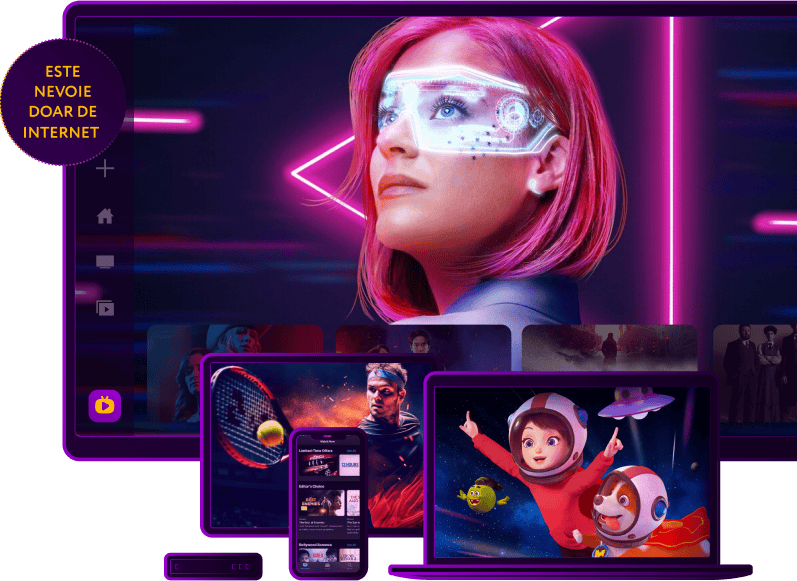
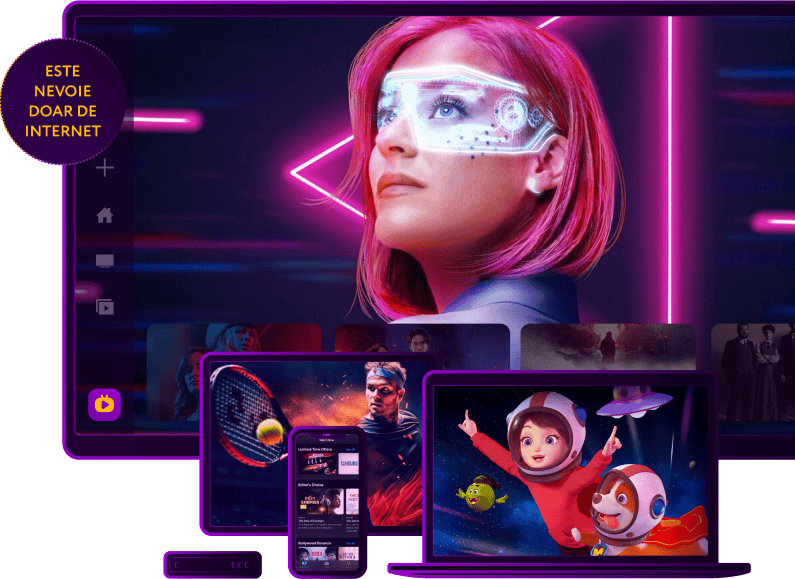
done

diff --git a/css/style.css b/css/style.css
@@ -1,1 +1,1 @@
-html{font-family:sans-serif;-ms-text-size-adjust:100%;-webkit-text-size-adjust:100%}body{margin:0}article,aside,details,figcaption,figure,footer,header,hgroup,main,nav,section,summary{display:block}audio,canvas,progress,video{display:inline-block;vertical-align:baseline}audio:not([controls]){display:none;height:0}[hidden],template{display:none}a{background:rgba(0,0,0,0)}a:active,a:hover{outline:0}abbr[title]{border-bottom:1px dotted}b,strong{font-weight:bold}dfn{font-style:italic}h1{font-size:2em;margin:.67em 0}mark{background:#ff0;color:#000}small{font-size:80%}sub,sup{font-size:75%;line-height:0;position:relative;vertical-align:baseline}sup{top:-0.5em}sub{bottom:-0.25em}img{border:0}svg:not(:root){overflow:hidden}figure{margin:1em 40px}hr{-moz-box-sizing:content-box;-webkit-box-sizing:content-box;box-sizing:content-box;height:0}pre{overflow:auto}code,kbd,pre,samp{font-family:monospace,monospace;font-size:1em}button,input,optgroup,select,textarea{color:inherit;font:inherit;margin:0}button{overflow:visible}button,select{text-transform:none}button,html input[type=button],input[type=reset],input[type=submit]{-webkit-appearance:button;cursor:pointer}button[disabled],html input[disabled]{cursor:default}button::-moz-focus-inner,input::-moz-focus-inner{border:0;padding:0}input{line-height:normal}input[type=checkbox],input[type=radio]{-webkit-box-sizing:border-box;-moz-box-sizing:border-box;box-sizing:border-box;padding:0}input[type=number]::-webkit-inner-spin-button,input[type=number]::-webkit-outer-spin-button{height:auto}input[type=search]{-webkit-appearance:textfield;-moz-box-sizing:content-box;-webkit-box-sizing:content-box;box-sizing:content-box}input[type=search]::-webkit-search-cancel-button,input[type=search]::-webkit-search-decoration{-webkit-appearance:none}legend{border:0;padding:0}textarea{overflow:auto}optgroup{font-weight:bold}table{border-collapse:collapse;border-spacing:0}td,th{padding:0}@font-face{font-family:"Circe Rounded";src:url("../fonts/CirceRounded-ExtraLight.woff2") format("woff2");src:url("../fonts/CirceRounded-ExtraLight.woff") format("woff");font-weight:200;font-style:normal}@font-face{font-family:"Circe Rounded";src:url("../fonts/CirceRounded-Regular2.woff2") format("woff2");src:url("../fonts/CirceRounded-Regular2.woff") format("woff");font-weight:normal;font-style:normal}@font-face{font-family:"Circe Rounded Alt";src:url("../fonts/CirceRoundedAlt-Regular2.woff2") format("woff2");src:url("../fonts/CirceRoundedAlt-Regular2.woff") format("woff");font-weight:normal;font-style:normal}@font-face{font-family:"Circe Rounded";src:url("../fonts/CirceRounded-Regular3.woff2") format("woff2");src:url("../fonts/CirceRounded-Regular3.woff") format("woff");font-weight:normal;font-style:normal}@font-face{font-family:"Circe Rounded";src:url("../fonts/CirceRounded-Regular5.woff2") format("woff2");src:url("../fonts/CirceRounded-Regular5.woff") format("woff");font-weight:normal;font-style:normal}@font-face{font-family:"Circe Rounded";src:url("../fonts/CirceRounded-Regular.woff2") format("woff2");src:url("../fonts/CirceRounded-Regular.woff") format("woff");font-weight:normal;font-style:normal}@font-face{font-family:"Circe Rounded Alt";src:url("../fonts/CirceRounded-AltBold.woff2") format("woff2");src:url("../fonts/CirceRounded-AltBold.woff") format("woff");font-weight:bold;font-style:normal}@font-face{font-family:"Circe Rounded";src:url("../fonts/CirceRounded-Regular4.woff2") format("woff2");src:url("../fonts/CirceRounded-Regular4.woff") format("woff");font-weight:normal;font-style:normal}*{padding:0;margin:0;-webkit-box-sizing:border-box;-moz-box-sizing:border-box;box-sizing:border-box;border:none;outline:none}body{min-height:100vh;color:#fff;font-size:14px;background-color:#000;font-family:"Circe Rounded",sans-serif;scroll-behavior:smooth;position:relative;z-index:1}body.active{overflow:hidden}p{font-size:18px;line-height:130%}img{max-width:100%}a,button{color:#fff;text-decoration:none;-webkit-transition:all ease .3s;-o-transition:all ease .3s;-moz-transition:all ease .3s;transition:all ease .3s;background-color:rgba(0,0,0,0)}a:active,button:active{-webkit-transform:scale(0.98);-moz-transform:scale(0.98);-ms-transform:scale(0.98);-o-transform:scale(0.98);transform:scale(0.98)}a:hover,button:hover{opacity:.8}mark{background:rgba(0,0,0,0);color:#000}.header{position:relative;z-index:1;width:100%;display:-webkit-box;display:-webkit-flex;display:-moz-box;display:-ms-flexbox;display:flex;-webkit-box-pack:justify;-webkit-justify-content:space-between;-moz-box-pack:justify;-ms-flex-pack:justify;justify-content:space-between;-webkit-box-align:end;-webkit-align-items:flex-end;-moz-box-align:end;-ms-flex-align:end;align-items:flex-end;margin-bottom:10px}.header__soon{font-size:clamp(14px,1.9vw,36px);display:inline-block;padding:18px 33px 13px;background-color:#ffb700;font-weight:700;-webkit-border-radius:0 0 15px 15px;-moz-border-radius:0 0 15px 15px;border-radius:0 0 15px 15px;color:#90c}@media screen and (max-width: 1600px){.header__soon{padding:13px 24px 9px}}@media screen and (max-width: 1200px){.header__soon{padding:10px 19px 6px;-webkit-border-radius:0 0 8px 8px;-moz-border-radius:0 0 8px 8px;border-radius:0 0 8px 8px}}.header .logo{display:none}.header__descr{font-size:24px;font-size:clamp(12px,1.25vw,24px);font-style:normal;font-weight:700;line-height:normal;text-transform:uppercase;color:#90c}.header__descr::before{content:"";display:inline-block;width:535px;max-width:30vw;height:2px;margin-right:40px;vertical-align:middle;background-image:url("../img/line.svg");background-repeat:no-repeat;-webkit-background-size:cover;-moz-background-size:cover;-o-background-size:cover;background-size:cover;background-position:center right}@media screen and (max-width: 1200px){.header__descr::before{margin-right:22px}}@media screen and (max-width: 800px){.header{-webkit-box-orient:vertical;-webkit-box-direction:normal;-webkit-flex-direction:column;-moz-box-orient:vertical;-moz-box-direction:normal;-ms-flex-direction:column;flex-direction:column;-webkit-box-align:center;-webkit-align-items:center;-moz-box-align:center;-ms-flex-align:center;align-items:center;gap:14px}.header .logo{display:block}.header__descr::before{display:none}}.hero{position:relative;z-index:1;min-height:100vh;background:-webkit-radial-gradient(117.74% 48.97%, 111.52% 74.35%, #6F00AB 46.88%, #000 100%);background:-moz-radial-gradient(117.74% 48.97%, 111.52% 74.35%, #6F00AB 46.88%, #000 100%);background:-o-radial-gradient(117.74% 48.97%, 111.52% 74.35%, #6F00AB 46.88%, #000 100%);background:radial-gradient(111.52% 74.35% at 117.74% 48.97%, #6F00AB 46.88%, #000 100%);padding:0 90px;display:-webkit-box;display:-webkit-flex;display:-moz-box;display:-ms-flexbox;display:flex;-webkit-box-align:center;-webkit-align-items:center;-moz-box-align:center;-ms-flex-align:center;align-items:center;-webkit-box-pack:justify;-webkit-justify-content:space-between;-moz-box-pack:justify;-ms-flex-pack:justify;justify-content:space-between;-webkit-box-orient:vertical;-webkit-box-direction:normal;-webkit-flex-direction:column;-moz-box-orient:vertical;-moz-box-direction:normal;-ms-flex-direction:column;flex-direction:column}.hero-content{width:100%;margin:auto}.hero-content .logo{display:inline-block;width:clamp(182px,23.6vw,420px);margin:0}@media screen and (max-width: 1600px){.hero{padding:0 50px}}@media screen and (max-width: 1200px){.hero{padding:0 40px}}@media screen and (max-width: 1020px){.hero{padding:0 35px}}.hero__img{position:absolute;top:50%;-webkit-transform:translateY(-50%);-moz-transform:translateY(-50%);-ms-transform:translateY(-50%);-o-transform:translateY(-50%);transform:translateY(-50%);right:0;z-index:-111;pointer-events:none;-o-object-fit:contain;object-fit:contain;-o-object-position:center right;object-position:center right;width:65%;max-height:100%}.hero h1{max-width:45%;margin:17px 0;font-size:clamp(26px,3.33vw,58px);color:#ffb700}@media screen and (max-width: 1600px){.hero h1{margin:14px 0}}@media screen and (max-width: 1200px){.hero h1{margin:12px 0 6px}}.hero__text{max-width:45%;font-size:clamp(14px,1.7vw,32px);margin-bottom:50px}@media screen and (max-width: 1600px){.hero__text{margin-bottom:30px}}@media screen and (max-width: 800px){.hero{display:block;padding:0 0 18px;background:none}.hero picture{padding:25px 0;display:block;background:-webkit-radial-gradient(68% 44%, 70.59% 47.06%, #6F00AB 39.5%, #000 100%);background:-moz-radial-gradient(68% 44%, 70.59% 47.06%, #6F00AB 39.5%, #000 100%);background:-o-radial-gradient(68% 44%, 70.59% 47.06%, #6F00AB 39.5%, #000 100%);background:radial-gradient(70.59% 47.06% at 68% 44%, #6F00AB 39.5%, #000 100%)}.hero__img{position:static;-webkit-transform:none;-moz-transform:none;-ms-transform:none;-o-transform:none;transform:none;width:95%;display:block;margin:0 0 15px auto}.hero h1,.hero__text{max-width:100%;padding:0 15px;margin:0}.hero h1{margin:0 0 8px}.hero-content{text-align:center}.hero-content .logo{display:none}}.partners{padding:0;display:-webkit-box;display:-webkit-flex;display:-moz-box;display:-ms-flexbox;display:flex;-webkit-box-align:center;-webkit-align-items:center;-moz-box-align:center;-ms-flex-align:center;align-items:center;-webkit-box-pack:start;-webkit-justify-content:flex-start;-moz-box-pack:start;-ms-flex-pack:start;justify-content:flex-start;gap:10px 60px;-webkit-flex-wrap:wrap;-ms-flex-wrap:wrap;flex-wrap:wrap;width:47%;max-width:720px}.partners::before,.partners::after{content:"";display:block;width:100%;height:1px;-webkit-box-sizing:border-box;-moz-box-sizing:border-box;box-sizing:border-box;background-image:url("../img/line.svg");background-repeat:no-repeat;background-position:center right;-webkit-background-size:100% auto;-moz-background-size:100% auto;-o-background-size:100% auto;background-size:100% auto}.partners::before{-webkit-transform:scale(-1);-moz-transform:scale(-1);-ms-transform:scale(-1);-o-transform:scale(-1);transform:scale(-1)}.partners::after{margin-top:15px}.partners img{max-width:18%}@media screen and (max-width: 1600px){.partners{gap:6px 50px}.partners::after{margin-top:15px}}@media screen and (max-width: 1010px){.partners{gap:4px 30px}.partners::after{margin-top:6px}}@media screen and (max-width: 800px){.partners{width:100%;-webkit-box-pack:justify;-webkit-justify-content:space-between;-moz-box-pack:justify;-ms-flex-pack:justify;justify-content:space-between;gap:0;padding:0 15px}.partners img{min-width:18%;margin:4px 5px}}/*# sourceMappingURL=style.css.map */
+html{font-family:sans-serif;-ms-text-size-adjust:100%;-webkit-text-size-adjust:100%}body{margin:0}article,aside,details,figcaption,figure,footer,header,hgroup,main,nav,section,summary{display:block}audio,canvas,progress,video{display:inline-block;vertical-align:baseline}audio:not([controls]){display:none;height:0}[hidden],template{display:none}a{background:rgba(0,0,0,0)}a:active,a:hover{outline:0}abbr[title]{border-bottom:1px dotted}b,strong{font-weight:bold}dfn{font-style:italic}h1{font-size:2em;margin:.67em 0}mark{background:#ff0;color:#000}small{font-size:80%}sub,sup{font-size:75%;line-height:0;position:relative;vertical-align:baseline}sup{top:-0.5em}sub{bottom:-0.25em}img{border:0}svg:not(:root){overflow:hidden}figure{margin:1em 40px}hr{-moz-box-sizing:content-box;-webkit-box-sizing:content-box;box-sizing:content-box;height:0}pre{overflow:auto}code,kbd,pre,samp{font-family:monospace,monospace;font-size:1em}button,input,optgroup,select,textarea{color:inherit;font:inherit;margin:0}button{overflow:visible}button,select{text-transform:none}button,html input[type=button],input[type=reset],input[type=submit]{-webkit-appearance:button;cursor:pointer}button[disabled],html input[disabled]{cursor:default}button::-moz-focus-inner,input::-moz-focus-inner{border:0;padding:0}input{line-height:normal}input[type=checkbox],input[type=radio]{-webkit-box-sizing:border-box;-moz-box-sizing:border-box;box-sizing:border-box;padding:0}input[type=number]::-webkit-inner-spin-button,input[type=number]::-webkit-outer-spin-button{height:auto}input[type=search]{-webkit-appearance:textfield;-moz-box-sizing:content-box;-webkit-box-sizing:content-box;box-sizing:content-box}input[type=search]::-webkit-search-cancel-button,input[type=search]::-webkit-search-decoration{-webkit-appearance:none}legend{border:0;padding:0}textarea{overflow:auto}optgroup{font-weight:bold}table{border-collapse:collapse;border-spacing:0}td,th{padding:0}@font-face{font-family:"Circe Rounded";src:url("../fonts/CirceRounded-ExtraLight.woff2") format("woff2");src:url("../fonts/CirceRounded-ExtraLight.woff") format("woff");font-weight:200;font-style:normal}@font-face{font-family:"Circe Rounded";src:url("../fonts/CirceRounded-Regular2.woff2") format("woff2");src:url("../fonts/CirceRounded-Regular2.woff") format("woff");font-weight:normal;font-style:normal}@font-face{font-family:"Circe Rounded Alt";src:url("../fonts/CirceRoundedAlt-Regular2.woff2") format("woff2");src:url("../fonts/CirceRoundedAlt-Regular2.woff") format("woff");font-weight:normal;font-style:normal}@font-face{font-family:"Circe Rounded";src:url("../fonts/CirceRounded-Regular3.woff2") format("woff2");src:url("../fonts/CirceRounded-Regular3.woff") format("woff");font-weight:normal;font-style:normal}@font-face{font-family:"Circe Rounded";src:url("../fonts/CirceRounded-Regular5.woff2") format("woff2");src:url("../fonts/CirceRounded-Regular5.woff") format("woff");font-weight:normal;font-style:normal}@font-face{font-family:"Circe Rounded";src:url("../fonts/CirceRounded-Regular.woff2") format("woff2");src:url("../fonts/CirceRounded-Regular.woff") format("woff");font-weight:normal;font-style:normal}@font-face{font-family:"Circe Rounded Alt";src:url("../fonts/CirceRounded-AltBold.woff2") format("woff2");src:url("../fonts/CirceRounded-AltBold.woff") format("woff");font-weight:bold;font-style:normal}@font-face{font-family:"Circe Rounded";src:url("../fonts/CirceRounded-Regular4.woff2") format("woff2");src:url("../fonts/CirceRounded-Regular4.woff") format("woff");font-weight:normal;font-style:normal}*{padding:0;margin:0;-webkit-box-sizing:border-box;-moz-box-sizing:border-box;box-sizing:border-box;border:none;outline:none}body{min-height:100vh;color:#fff;font-size:14px;background-color:#000;font-family:"Circe Rounded",sans-serif;scroll-behavior:smooth;position:relative;z-index:1}body.active{overflow:hidden}p{font-size:18px;line-height:130%}img{max-width:100%}a,button{color:#fff;text-decoration:none;-webkit-transition:all ease .3s;-o-transition:all ease .3s;-moz-transition:all ease .3s;transition:all ease .3s;background-color:rgba(0,0,0,0)}a:active,button:active{-webkit-transform:scale(0.98);-moz-transform:scale(0.98);-ms-transform:scale(0.98);-o-transform:scale(0.98);transform:scale(0.98)}a:hover,button:hover{opacity:.8}mark{background:rgba(0,0,0,0);color:#000}.header{position:relative;z-index:1;width:100%;display:-webkit-box;display:-webkit-flex;display:-moz-box;display:-ms-flexbox;display:flex;-webkit-box-pack:justify;-webkit-justify-content:space-between;-moz-box-pack:justify;-ms-flex-pack:justify;justify-content:space-between;-webkit-box-align:end;-webkit-align-items:flex-end;-moz-box-align:end;-ms-flex-align:end;align-items:flex-end;margin-bottom:10px}.header__soon{font-size:clamp(14px,1.9vw,36px);display:inline-block;padding:18px 33px 13px;background-color:#ffb700;font-weight:700;-webkit-border-radius:0 0 15px 15px;-moz-border-radius:0 0 15px 15px;border-radius:0 0 15px 15px;color:#90c}@media screen and (max-width: 1600px){.header__soon{padding:13px 24px 9px}}@media screen and (max-width: 1200px){.header__soon{padding:10px 19px 6px;-webkit-border-radius:0 0 8px 8px;-moz-border-radius:0 0 8px 8px;border-radius:0 0 8px 8px}}.header .logo{display:none;max-width:182px}.header__descr{font-size:24px;font-size:clamp(12px,1.25vw,24px);font-style:normal;font-weight:700;line-height:normal;text-transform:uppercase;color:#90c}.header__descr::before{content:"";display:inline-block;width:535px;max-width:30vw;height:2px;margin-right:40px;vertical-align:middle;background-image:url("../img/line.svg");background-repeat:no-repeat;-webkit-background-size:cover;-moz-background-size:cover;-o-background-size:cover;background-size:cover;background-position:center right}@media screen and (max-width: 1200px){.header__descr::before{margin-right:22px}}@media screen and (max-width: 1020px){.header{-webkit-box-orient:vertical;-webkit-box-direction:normal;-webkit-flex-direction:column;-moz-box-orient:vertical;-moz-box-direction:normal;-ms-flex-direction:column;flex-direction:column;-webkit-box-align:center;-webkit-align-items:center;-moz-box-align:center;-ms-flex-align:center;align-items:center;gap:14px}.header .logo{display:block}.header__descr::before{display:none}}.hero{position:relative;z-index:1;min-height:100vh;background:-webkit-radial-gradient(117.74% 48.97%, 111.52% 74.35%, #6F00AB 46.88%, #000 100%);background:-moz-radial-gradient(117.74% 48.97%, 111.52% 74.35%, #6F00AB 46.88%, #000 100%);background:-o-radial-gradient(117.74% 48.97%, 111.52% 74.35%, #6F00AB 46.88%, #000 100%);background:radial-gradient(111.52% 74.35% at 117.74% 48.97%, #6F00AB 46.88%, #000 100%);padding:0 90px;display:-webkit-box;display:-webkit-flex;display:-moz-box;display:-ms-flexbox;display:flex;-webkit-box-align:center;-webkit-align-items:center;-moz-box-align:center;-ms-flex-align:center;align-items:center;-webkit-box-pack:justify;-webkit-justify-content:space-between;-moz-box-pack:justify;-ms-flex-pack:justify;justify-content:space-between;-webkit-box-orient:vertical;-webkit-box-direction:normal;-webkit-flex-direction:column;-moz-box-orient:vertical;-moz-box-direction:normal;-ms-flex-direction:column;flex-direction:column}.hero::before,.hero::after{content:"";display:block;width:100%;height:25%;position:absolute;top:0;left:0;z-index:-11111;background:-webkit-linear-gradient(210deg, rgba(0, 0, 0, 0.69) 9.22%, rgba(0, 0, 0, 0) 62.24%);background:-moz-linear-gradient(210deg, rgba(0, 0, 0, 0.69) 9.22%, rgba(0, 0, 0, 0) 62.24%);background:-o-linear-gradient(210deg, rgba(0, 0, 0, 0.69) 9.22%, rgba(0, 0, 0, 0) 62.24%);background:linear-gradient(240deg, rgba(0, 0, 0, 0.69) 9.22%, rgba(0, 0, 0, 0) 62.24%)}.hero::after{height:34%;top:auto;bottom:0;background-image:-webkit-linear-gradient(103deg, #000 22.24%, rgba(0, 0, 0, 0) 75.93%);background-image:-moz-linear-gradient(103deg, #000 22.24%, rgba(0, 0, 0, 0) 75.93%);background-image:-o-linear-gradient(103deg, #000 22.24%, rgba(0, 0, 0, 0) 75.93%);background-image:linear-gradient(347deg, #000 22.24%, rgba(0, 0, 0, 0) 75.93%)}.hero-content{width:100%;margin:auto}.hero-content .logo{display:inline-block;width:clamp(182px,23.6vw,420px);margin:0}@media screen and (max-width: 1600px){.hero{padding:0 50px}}@media screen and (max-width: 1200px){.hero{padding:0 40px}}@media screen and (max-width: 1020px){.hero{padding:0 35px}}.hero__img{position:absolute;top:50%;-webkit-transform:translateY(-50%);-moz-transform:translateY(-50%);-ms-transform:translateY(-50%);-o-transform:translateY(-50%);transform:translateY(-50%);right:0;z-index:-1;pointer-events:none;-o-object-fit:contain;object-fit:contain;-o-object-position:center right;object-position:center right;width:65%;max-height:100%}.hero h1{max-width:45%;margin:35px 0 17px;font-weight:500;font-size:clamp(26px,3.33vw,58px);color:#ffb700}@media screen and (max-width: 1600px){.hero h1{margin:14px 0}}@media screen and (max-width: 1200px){.hero h1{margin:12px 0 6px}}.hero__text{max-width:45%;font-weight:400;font-size:clamp(14px,1.7vw,32px);margin-bottom:50px}@media screen and (max-width: 1600px){.hero__text{margin-bottom:30px}}@media screen and (max-width: 1020px){.hero{display:block;padding:0 0 18px;background:none}.hero picture{padding:25px 0;margin-bottom:15px;display:block;background:-webkit-radial-gradient(68% 44%, 70.59% 47.06%, #6F00AB 39.5%, #000 100%);background:-moz-radial-gradient(68% 44%, 70.59% 47.06%, #6F00AB 39.5%, #000 100%);background:-o-radial-gradient(68% 44%, 70.59% 47.06%, #6F00AB 39.5%, #000 100%);background:radial-gradient(70.59% 47.06% at 68% 44%, #6F00AB 39.5%, #000 100%)}.hero__img{position:static;-webkit-transform:none;-moz-transform:none;-ms-transform:none;-o-transform:none;transform:none;width:95%;display:block;margin:0 0 15px auto}.hero h1,.hero__text{max-width:100%;padding:0 15px;margin:0}.hero h1{margin:0 0 8px}.hero-content{text-align:center}.hero-content .logo{display:none}}.partners{padding:0;display:-webkit-box;display:-webkit-flex;display:-moz-box;display:-ms-flexbox;display:flex;-webkit-box-align:center;-webkit-align-items:center;-moz-box-align:center;-ms-flex-align:center;align-items:center;-webkit-box-pack:start;-webkit-justify-content:flex-start;-moz-box-pack:start;-ms-flex-pack:start;justify-content:flex-start;gap:10px 60px;-webkit-flex-wrap:wrap;-ms-flex-wrap:wrap;flex-wrap:wrap;width:47%;max-width:720px}.partners::before,.partners::after{content:"";display:block;width:84%;height:1px;background-image:url("../img/line.svg");background-repeat:no-repeat;background-position:center right;-webkit-background-size:100% auto;-moz-background-size:100% auto;-o-background-size:100% auto;background-size:100% auto;margin:0 auto 0 0}.partners::before{-webkit-transform:scale(-1);-moz-transform:scale(-1);-ms-transform:scale(-1);-o-transform:scale(-1);transform:scale(-1)}.partners::after{margin:15px 0 0 auto}.partners img{max-width:18%}@media screen and (max-width: 1600px){.partners{gap:6px 40px}.partners::after{margin-top:15px}}@media screen and (max-width: 1010px){.partners{width:100%;padding:0 11px;max-width:100%;-webkit-box-pack:center;-webkit-justify-content:center;-moz-box-pack:center;-ms-flex-pack:center;justify-content:center;gap:0}.partners::before{margin-bottom:10px}.partners::after{margin-top:15px}.partners img{min-width:14%;max-width:16%;margin:4px 14px}}/*# sourceMappingURL=style.css.map */

diff --git a/sass/style.sass b/sass/style.sass
@@ -13,6 +13,23 @@
     align-items: center
     justify-content: space-between
     flex-direction: column
+    &::before,
+    &::after
+        content: ''
+        display: block
+        width: 100%
+        height: 25%
+        position: absolute
+        top: 0
+        left: 0
+        z-index: -11111
+        background: linear-gradient(240deg, rgba(0, 0, 0, 0.69) 9.22%, rgba(0, 0, 0, 0.00) 62.24%)
+    &::after
+        height: 34%
+        top: auto
+        bottom: 0
+        background-image: linear-gradient(347deg, #000 22.24%, rgba(0, 0, 0, 0.00) 75.93%)
+
     &-content
         width: 100%
         margin: auto
@@ -23,8 +40,10 @@
 
     @media screen and ( max-width: 1600px )
         padding: 0 50px
+
     @media screen and ( max-width: 1200px )
         padding: 0 40px
+
     @media screen and ( max-width: 1020px )
         padding: 0 35px
 
@@ -33,7 +52,7 @@
         top: 50%
         transform: translateY(-50%)
         right: 0
-        z-index: -111
+        z-index: -1
         pointer-events: none
         object-fit: contain
         object-position: center right
@@ -42,7 +61,8 @@
 
     h1
         max-width: 45%
-        margin: 17px 0
+        margin: 35px 0 17px
+        font-weight: 500
         font-size: clamp(26px, 3.33vw, 58px)
         color: $second
         @media screen and ( max-width: 1600px )
@@ -52,22 +72,23 @@
 
     &__text
         max-width: 45%
+        font-weight: 400
         font-size: clamp(14px, 1.7vw, 32px)
         margin-bottom: 50px
         @media screen and ( max-width: 1600px )
             margin-bottom: 30px
 
-    @media screen and ( max-width: 800px )
+    @media screen and ( max-width: 1020px )
         display: block
         padding: 0 0 18px
         background: none
         picture
             padding: 25px 0
+            margin-bottom: 15px
             display: block
             background: radial-gradient(70.59% 47.06% at 68% 44%, #6F00AB 39.5%, #000 100%)
 
         &__img
-            // opacity: 0
             position: static
             transform: none
             width: 95%
@@ -100,35 +121,39 @@
     &::after
         content: ''
         display: block
-        width: 100%
+        width: 84%
         height: 1px
-        box-sizing: border-box
         background-image: url('../img/line.svg')
         background-repeat: no-repeat
         background-position: center right
         background-size: 100% auto
+        margin: 0 auto 0 0
     &::before
         transform: scale(-1)
 
     &::after
-        margin-top: 15px
+        margin: 15px 0 0 auto
 
     img
         max-width: 18%
 
     @media screen and ( max-width: 1600px )
-        gap: 6px 50px
+        gap: 6px 40px
         &::after
             margin-top: 15px
+
     @media screen and ( max-width: 1010px )
-        gap: 4px 30px
-        &::after
-            margin-top: 6px
-    @media screen and ( max-width: 800px )
         width: 100%
-        justify-content: space-between
+        padding: 0 11px
+        max-width: 100%
+        justify-content: center
         gap: 0
-        padding: 0 15px
+        &::before
+            margin-bottom: 10px
+        &::after
+            margin-top: 15px
+
         img
-            min-width: 18%
-            margin: 4px 5px
+            min-width: 14%
+            max-width: 16%
+            margin: 4px 14px

diff --git a/index.html b/index.html
@@ -6,7 +6,7 @@
     <meta name="viewport" content="width=device-width, initial-scale=1.0">
     <title>Rott</title>
 
-    <link rel="stylesheet" href="./css/style.css">
+    <link rel="stylesheet" href="./css/style.css?ver=123">
 </head>
 
 <body>
@@ -30,7 +30,7 @@
                 instalați cu ușurință aplicația ROTT
             </p>
             <picture>
-                <source media="(max-width: 800px)" srcset="img/main-mob.png">
+                <source media="(max-width: 900px)" srcset="img/main-mob.png">
                 <img src="img/main.png" class="hero__img" alt="main">
             </picture>
             <div class="partners">

diff --git a/sass/_header.sass b/sass/_header.sass
@@ -22,6 +22,7 @@
 
     .logo
         display: none
+        max-width: 182px
 
     &__descr
         font-size: 24px
@@ -47,7 +48,7 @@
             @media screen and ( max-width: 1200px )
                 margin-right: 22px
 
-    @media screen and ( max-width: 800px )
+    @media screen and ( max-width: 1020px ) 
         flex-direction: column
         align-items: center
         gap: 14px
